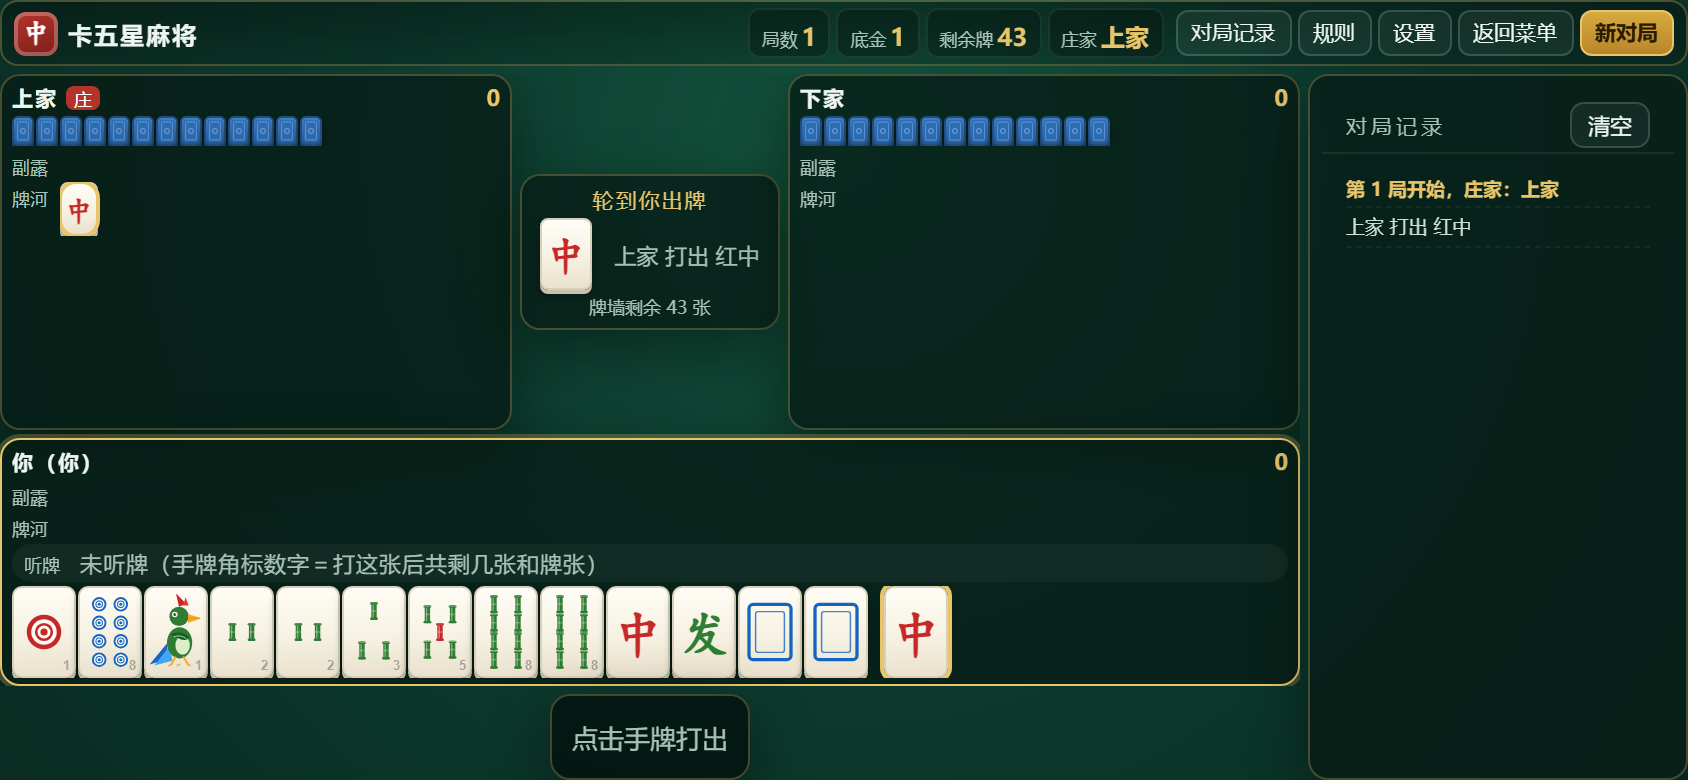
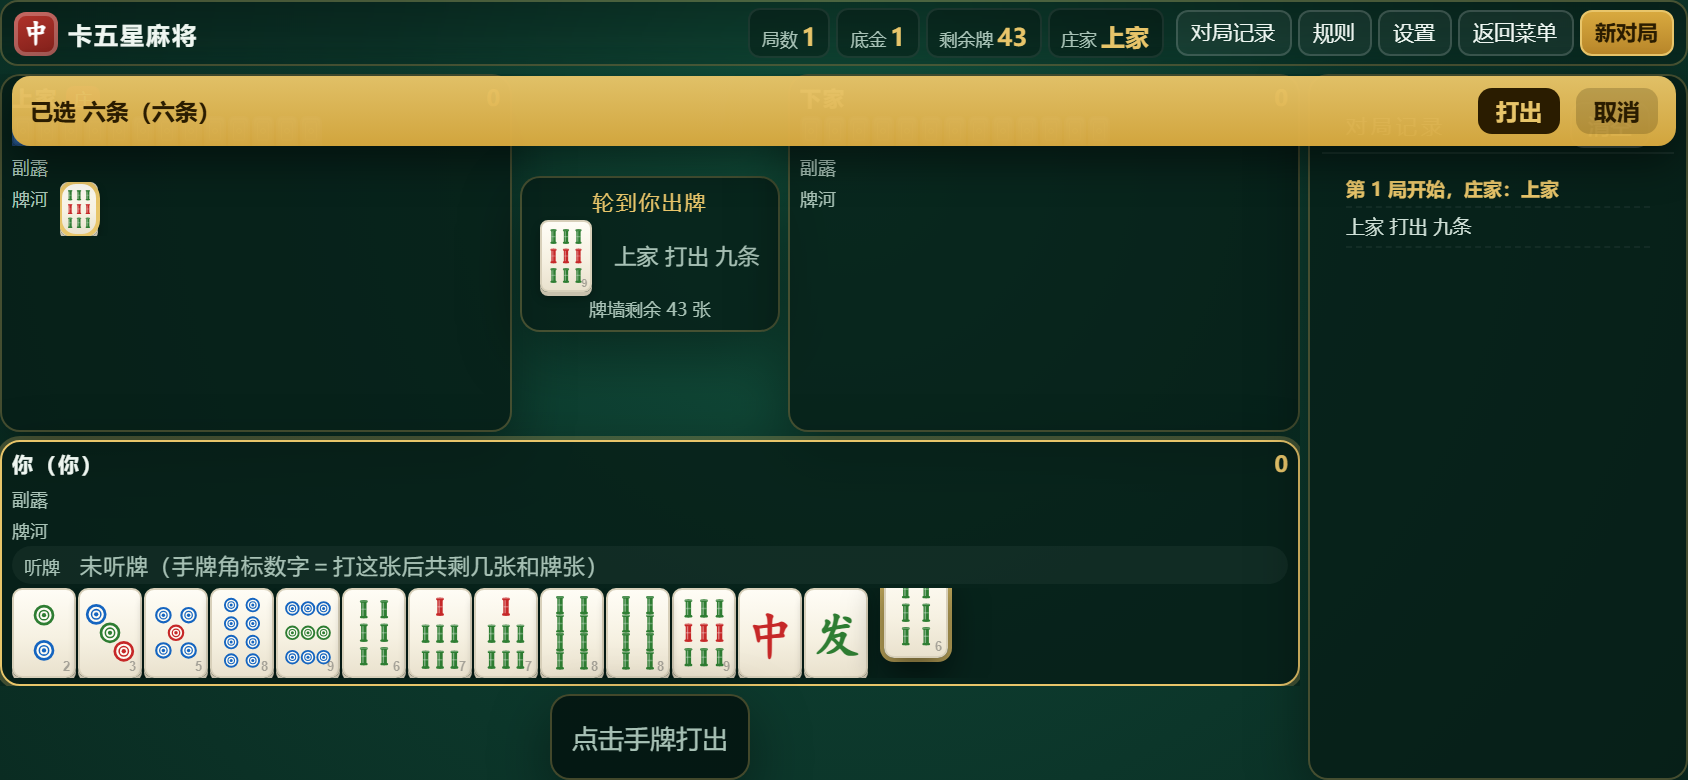
小屏顶栏修复 + 多机型自检加入顶栏重叠检测
- 320 宽（iPhone SE1）顶栏标题会顶到按钮上：≤358px 只留红色「中」标、按钮内边距收紧
- tests/shots-sizes.js 重写（之前用 PowerShell 改坏了编码）：结构更清晰 + 新增「相邻块重叠」检测，
  并保留「对手亮倒」最坏情况；9 种尺寸全部合格（竖屏间距 8~329、亮倒后 8~401、横屏一律 4）
- dist/publish.js 支持 KWX_TAG（默认 v1.1.0）、Release notes 自动截取 CHANGELOG 里对应版本那一段

diff --git a/tests/shots-sizes.js b/tests/shots-sizes.js
@@ -1,7 +1,8 @@
 /*
  * 真实游戏在多种真机尺寸下的自检（开发用，需要 puppeteer-core + 本机 Chrome）
  * 用法： NODE_PATH=<装了 puppeteer-core 的 node_modules> node tests/shots-sizes.js
- * 检查：横向溢出 / 面板重叠 / 手牌几行 / 四个方框挂在哪 / 顶栏是否被挤爆
+ * 检查：横向/纵向溢出 · 面板重叠 · 手牌几行 · 四个方框挂在哪 · 顶栏被挤爆/互相压住 · 底栏是否在视口内
+ * 每个尺寸跑两遍：正常状态 +「对手亮倒」最坏情况
  */
 'use strict';
 
@@ -13,7 +14,6 @@ const ROOT = path.join(__dirname, '..');
 const url = q => 'file:///' + path.join(ROOT, 'index.html').replace(/\\/g, '/') + q;
 const sleep = ms => new Promise(r => setTimeout(r, ms));
 
-// 常见机型（含最窄的 iPhone SE1、最宽的 Pro Max、横屏两种）
 const SIZES = [
   { n: 'iPhone SE1 竖', w: 320, h: 568 },
   { n: 'iPhone SE2 竖', w: 375, h: 667 },
@@ -25,6 +25,60 @@ const SIZES = [
   { n: 'Pro Max 横', w: 932, h: 430 },
   { n: 'iPad 竖', w: 768, h: 1024 }
 ];
+
+const MEASURE = () => {
+  const q = x => document.querySelector(x);
+  const box = n => {
+    if (!n) return null;
+    const b = n.getBoundingClientRect();
+    return [Math.round(b.left), Math.round(b.top), Math.round(b.width), Math.round(b.height)];
+  };
+  const hand = q('#seat-0 .hand-row');
+  let rows = 0;
+  if (hand) {
+    const t = new Set();
+    hand.querySelectorAll('.tile').forEach(x => t.add(x.offsetTop));
+    rows = t.size;
+  }
+  const top = q('#topbar');
+  let topOverflow = false, topOverlap = false;
+  if (top) {
+    const tb = top.getBoundingClientRect();
+    const kids = Array.from(top.children).filter(k => k.getBoundingClientRect().width > 0);
+    const boxes = kids.map(k => k.getBoundingClientRect());
+    topOverflow = Math.max.apply(null, boxes.map(b => b.right)) > tb.right + 1;
+    for (let i = 1; i < boxes.length; i++) {
+      if (boxes[i].left < boxes[i - 1].right - 1) topOverlap = true;
+    }
+  }
+  const opp = box(q('.opponents')), self = box(q('#seat-0'));
+  const bar = q('#actionbar');
+  return {
+    layout: window.KWX_UI.getLayout(),
+    hudParent: q('.hud') ? (q('.hud').parentNode.id || '') : '',
+    overflowX: document.documentElement.scrollWidth > window.innerWidth + 1,
+    overflowY: document.documentElement.scrollHeight > window.innerHeight + 1,
+    topOverflow: topOverflow, topOverlap: topOverlap, rows: rows,
+    gap: (opp && self) ? self[1] - (opp[1] + opp[3]) : null,
+    handH: hand ? Math.round(hand.getBoundingClientRect().height) : 0,
+    panelH: opp ? opp[3] : 0,
+    barBottom: bar ? Math.round(bar.getBoundingClientRect().bottom) : null
+  };
+};
+
+const WORST = () => {
+  const q = x => document.querySelector(x);
+  const box = n => {
+    if (!n) return null;
+    const b = n.getBoundingClientRect();
+    return [Math.round(b.left), Math.round(b.top), Math.round(b.width), Math.round(b.height)];
+  };
+  const opp = box(q('.opponents')), self = box(q('#seat-0'));
+  return {
+    gap: (opp && self) ? self[1] - (opp[1] + opp[3]) : null,
+    overflowY: document.documentElement.scrollHeight > window.innerHeight + 1
+  };
+};
 
 (async () => {
   const browser = await puppeteer.launch({
@@ -44,63 +98,29 @@ const SIZES = [
       if (p) break;
       await sleep(120);
     }
-    const r = await page.evaluate(() => {
-      const q = x => document.querySelector(x);
-      const box = n => { if (!n) return null; const b = n.getBoundingClientRect(); return [Math.round(b.left), Math.round(b.top), Math.round(b.width), Math.round(b.height)]; };
-      const hand = q('#seat-0 .hand-row');
-      let rows = 0;
-      if (hand) { const t = new Set(); hand.querySelectorAll('.tile').forEach(x => t.add(x.offsetTop)); rows = t.size; }
-      const top = q('#topbar'), tb = top ? top.getBoundingClientRect() : null;
-      // 顶栏内容有没有超出顶栏宽度（被挤爆）
-      let topOverflow = false;
-      if (top) {
-        const kids = Array.from(top.children);
-        const right = Math.max.apply(null, kids.map(k => k.getBoundingClientRect().right));
-        topOverflow = right > tb.right + 1;
-      }
-      const opp = box(q('.opponents')), self = box(q('#seat-0'));
-      return {
-        layout: window.KWX_UI.getLayout(),
-        hudParent: q('.hud') ? (q('.hud').parentNode.id || '') : '',
-        overflowX: document.documentElement.scrollWidth > window.innerWidth + 1,
-        overflowY: document.documentElement.scrollHeight > window.innerHeight + 1,
-        topOverflow, rows,
-        gap: (opp && self) ? self[1] - (opp[1] + opp[3]) : null,
-        handH: hand ? Math.round(hand.getBoundingClientRect().height) : 0,
-        panelH: opp ? opp[3] : 0,
-        // 底部操作栏是否在视口内
-        barBottom: (() => { const b = q('#actionbar'); if (!b) return null; return Math.round(b.getBoundingClientRect().bottom); })()
-      };
-    });
-    // 再来一遍「电脑亮倒」的最坏情况：对手面板多一行亮倒 + 一行公开听牌
+    const r = await page.evaluate(MEASURE);
+
+    // 最坏情况：对手亮倒（面板多一行亮倒牌 + 一行公开听牌）
     await page.evaluate(() => {
       const g = window.KWX_UI.getGame();
       const p = g.players[1];
       p.liangdao = true;
       p.melds = [{ kind: 'pong', tile: 18 }];
-      p.hand = p.hand.slice();
       p.liangdaoReveal = null;
       g.emit('change', { evt: 'test' });
     });
     await sleep(60);
-    const r2 = await page.evaluate(() => {
-      const q = x => document.querySelector(x);
-      const box = n => { if (!n) return null; const b = n.getBoundingClientRect(); return [Math.round(b.left), Math.round(b.top), Math.round(b.width), Math.round(b.height)]; };
-      const opp = box(q('.opponents')), self = box(q('#seat-0'));
-      return {
-        gap: (opp && self) ? self[1] - (opp[1] + opp[3]) : null,
-        overflowY: document.documentElement.scrollHeight > window.innerHeight + 1
-      };
-    });
+    const r2 = await page.evaluate(WORST);
+
     const ok = !r.overflowX && !r.overflowY && r.gap !== null && r.gap >= 0 &&
-      !r.topOverflow && r.barBottom !== null && r.barBottom <= s.h + 1 &&
+      !r.topOverflow && !r.topOverlap && r.barBottom !== null && r.barBottom <= s.h + 1 &&
       !r2.overflowY && r2.gap !== null && r2.gap >= 0;
     if (!ok) bad++;
-    console.log((ok ? '✓ ' : '✗ ') + s.n.padEnd(14) + s.w + 'x' + s.h +
-      '  布局=' + r.layout.padEnd(9) + ' 方框=' + (r.hudParent || '-').padEnd(11) +
-      ' 手牌' + r.rows + '行(' + r.handH + 'px) 面板' + r.panelH + 'px 间距' + r.gap +
-      ' 亮倒后间距' + r2.gap +
-      '  横向溢出=' + r.overflowX + ' 纵向溢出=' + r.overflowY + ' 顶栏挤爆=' + r.topOverflow);
+    console.log((ok ? 'OK ' : 'NG ') + s.n.padEnd(14) + s.w + 'x' + s.h +
+      '  布局=' + String(r.layout).padEnd(9) + ' 方框=' + (r.hudParent || '-').padEnd(11) +
+      ' 手牌' + r.rows + '行(' + r.handH + ') 面板' + r.panelH + ' 间距' + r.gap + '/亮倒' + r2.gap +
+      '  横向溢出=' + r.overflowX + ' 纵向溢出=' + r.overflowY +
+      ' 顶栏挤爆=' + r.topOverflow + ' 顶栏重叠=' + r.topOverlap);
     await page.close();
   }
   await browser.close();

diff --git a/css/mobile.css b/css/mobile.css
@@ -82,6 +82,11 @@ body.layout-mobile .brand { gap: 5px; min-width: 0; }
 body.layout-mobile .brand .logo { width: 22px; height: 22px; font-size: 13px; border-radius: 6px; }
 body.layout-mobile .brand h1 { font-size: 12px; letter-spacing: 1px; }
 body.layout-mobile .brand .sub { display: none; }          /* 去掉第二行，顶部不换行 */
+/* 320 宽的小屏（iPhone SE1）：顶栏标题会顶到按钮上，只留红色「中」标 */
+@media (max-width: 358px) {
+  body.layout-mobile .brand h1 { display: none; }
+  body.layout-mobile .topbtns .btn { padding: 3px 5px; font-size: 10px; }
+}
 body.layout-mobile .hud { display: flex; gap: 3px; margin-left: auto; flex-wrap: nowrap; }
 body.layout-mobile .hud-item { min-width: 0; padding: 1px 6px; border-radius: 6px; text-align: center; }
 body.layout-mobile .hud-item label { display: inline; font-size: 9px; letter-spacing: 0; margin-right: 2px; }

diff --git a/README.md b/README.md
@@ -47,6 +47,8 @@ index.html?layout=desktop     强制电脑版（手机上想用桌面版时）
 要看真实效果：手机上直接开 <https://fanqiezi.github.io/ka-wu-xing/>，或用
 `node tests/shots-real.js`（puppeteer + 本机 Chrome）在 390×844 / 844×390 / 1280×800 三种尺寸下截图 + 自检
 （会打印每个区块的真实尺寸、手牌几行、面板有没有重叠、有没有横向溢出）。
+`node tests/shots-sizes.js` 会在 **9 种真机尺寸**（320×568 ~ 932×430，含 iPhone SE1 / SE2 / 12 / Pro Max / iPad 的横竖屏）
+下逐项自检，并额外跑一遍「对手亮倒」的最坏情况。
 
 之前评审用的两张**纯静态样张**还留着，可以单独点开对比（假数据、不接逻辑，牌面与正式版同一套 SVG）：
 
